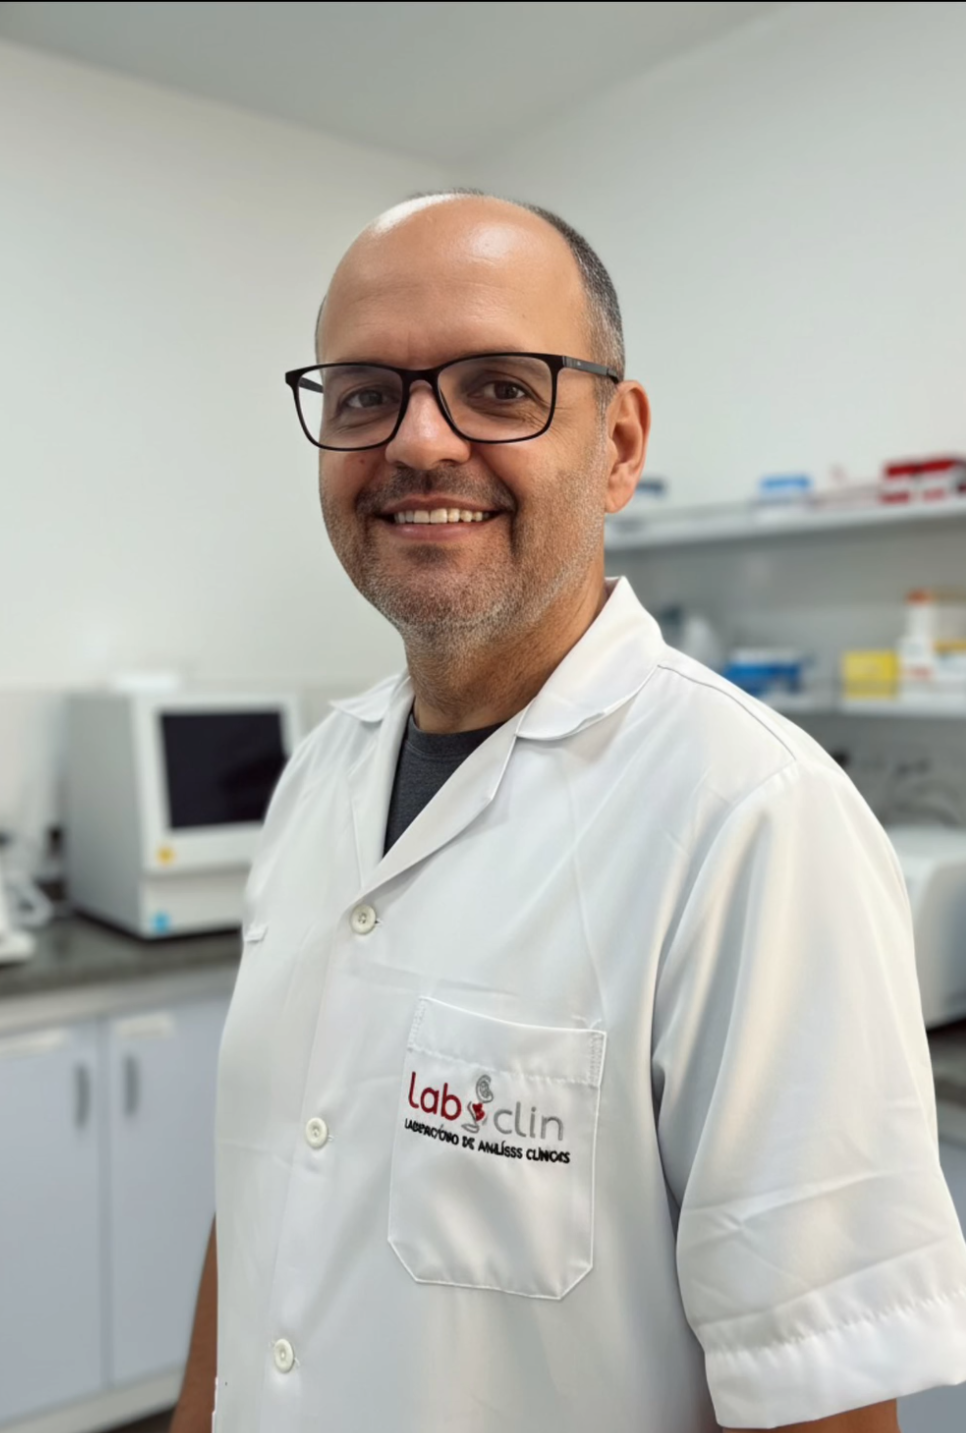
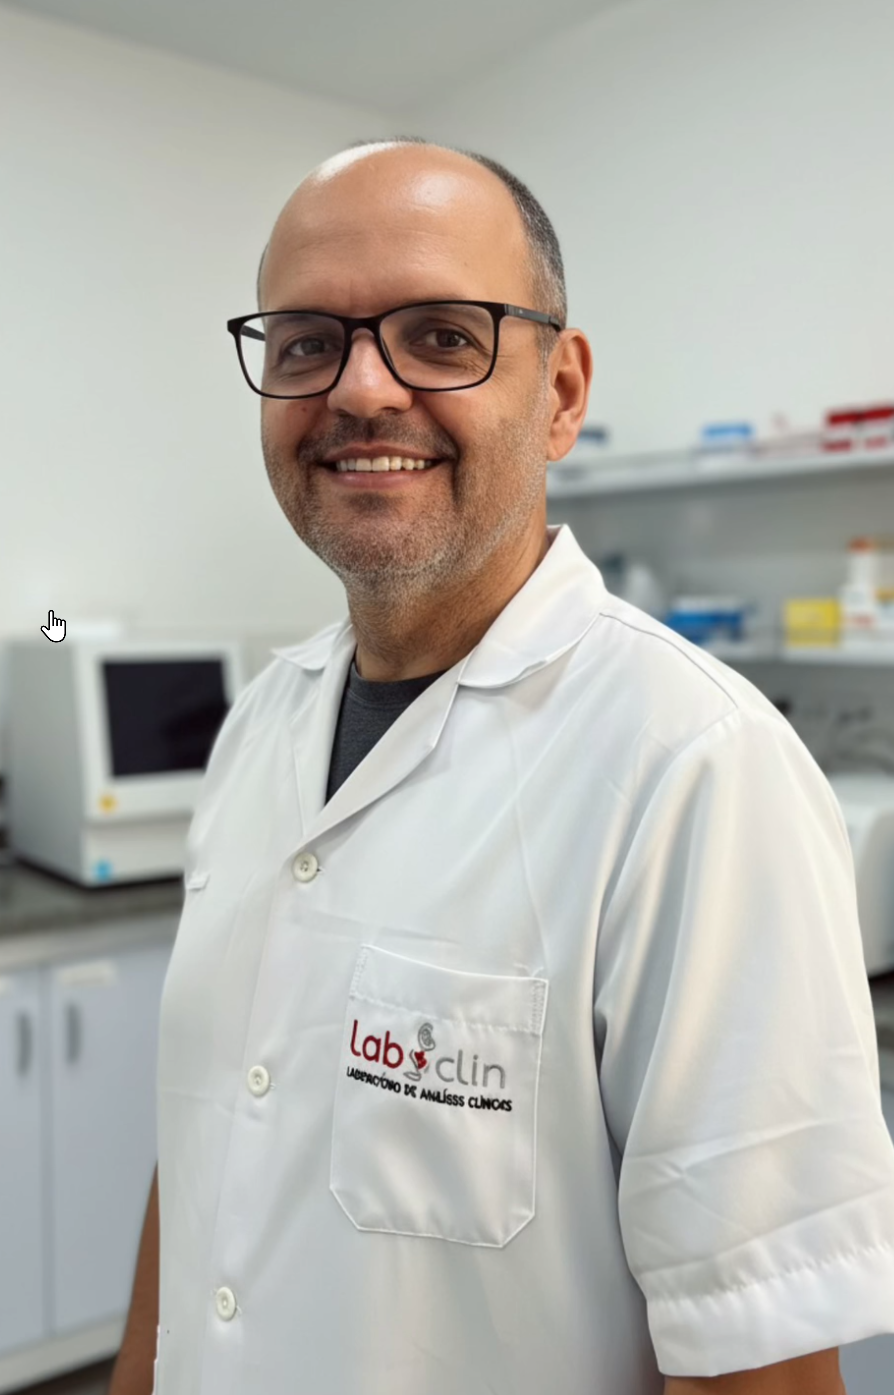
Changes

diff --git a/src/components/WhatsAppChatWidget.tsx b/src/components/WhatsAppChatWidget.tsx
@@ -14,38 +14,46 @@ const WhatsAppChatWidget = () => {
 
   return (
     <div className="fixed bottom-6 right-6 z-50">
-      {/* Popup expandido */}
+      {/* Popup expandido - Estilo Jordana Rosati */}
       {isOpen && (
-        <div className="mb-4 w-80 bg-background rounded-2xl shadow-2xl border border-border overflow-hidden animate-fade-in">
-          {/* Header verde com foto */}
-          <div className="flex items-center gap-3 p-4 bg-[#25D366]">
-            <div className="relative flex-shrink-0 w-14 h-14 bg-white/20 rounded-full flex items-center justify-center">
-              <MessageCircle className="w-7 h-7 text-white" />
-              <span className="absolute bottom-0 right-0 w-4 h-4 bg-green-400 rounded-full border-2 border-white animate-pulse" />
-            </div>
-            <div className="flex-1 text-white">
-              <h4 className="font-semibold">Labclin</h4>
-              <p className="text-sm opacity-90">Atendimento ao Cliente</p>
-            </div>
-            <button 
-              onClick={() => setIsOpen(false)}
-              className="text-white/80 hover:text-white transition-colors p-1"
-              aria-label="Fechar chat"
-            >
-              <X className="w-5 h-5" />
-            </button>
-          </div>
+        <div className="mb-4 w-80 bg-background rounded-2xl shadow-2xl border border-border overflow-hidden animate-fade-in relative">
+          {/* Botão fechar */}
+          <button 
+            onClick={() => setIsOpen(false)}
+            className="absolute top-3 right-3 text-muted-foreground hover:text-foreground transition-colors z-10"
+            aria-label="Fechar chat"
+          >
+            <X className="w-5 h-5" />
+          </button>
           
-          {/* Mensagem de boas-vindas */}
-          <div className="p-4">
-            <div className="bg-muted rounded-lg p-3 text-foreground text-sm leading-relaxed">
-              Olá! 👋 Ficou com alguma dúvida sobre nossos exames ou serviços? 
-              Fale comigo pelo WhatsApp!
+          {/* Conteúdo principal */}
+          <div className="p-5">
+            <div className="flex items-start gap-4">
+              {/* Foto com indicador online */}
+              <div className="relative flex-shrink-0">
+                <img 
+                  src="/images/atendente-labclin.png" 
+                  alt="Atendente Labclin"
+                  className="w-16 h-16 rounded-full object-cover border-2 border-border shadow-sm"
+                />
+                <span className="absolute bottom-0 left-0 w-4 h-4 bg-green-500 rounded-full border-2 border-background" />
+              </div>
+              
+              {/* Texto */}
+              <div className="flex-1 pt-1">
+                <h4 className="font-semibold text-foreground text-lg">Labclin</h4>
+                <p className="text-sm text-primary font-medium">Atendimento ao Cliente</p>
+              </div>
             </div>
+            
+            {/* Mensagem de boas-vindas */}
+            <p className="text-sm text-muted-foreground mt-4 leading-relaxed">
+              Olá! 👋 Ficou com alguma dúvida sobre nossos exames ou serviços? Fale comigo pelo WhatsApp!
+            </p>
           </div>
           
           {/* Botão CTA */}
-          <div className="p-4 pt-0">
+          <div className="px-5 pb-5">
             <a 
               href={whatsappUrl}
               target="_blank"
@@ -53,7 +61,7 @@ const WhatsAppChatWidget = () => {
               onClick={handleWhatsAppClick}
               className="block"
             >
-              <Button className="w-full bg-[#25D366] hover:bg-[#20BD5A] text-white font-medium">
+              <Button className="w-full bg-[#25D366] hover:bg-[#20BD5A] text-white font-medium h-11">
                 <MessageCircle className="mr-2 h-5 w-5" />
                 Iniciar Conversa
               </Button>
